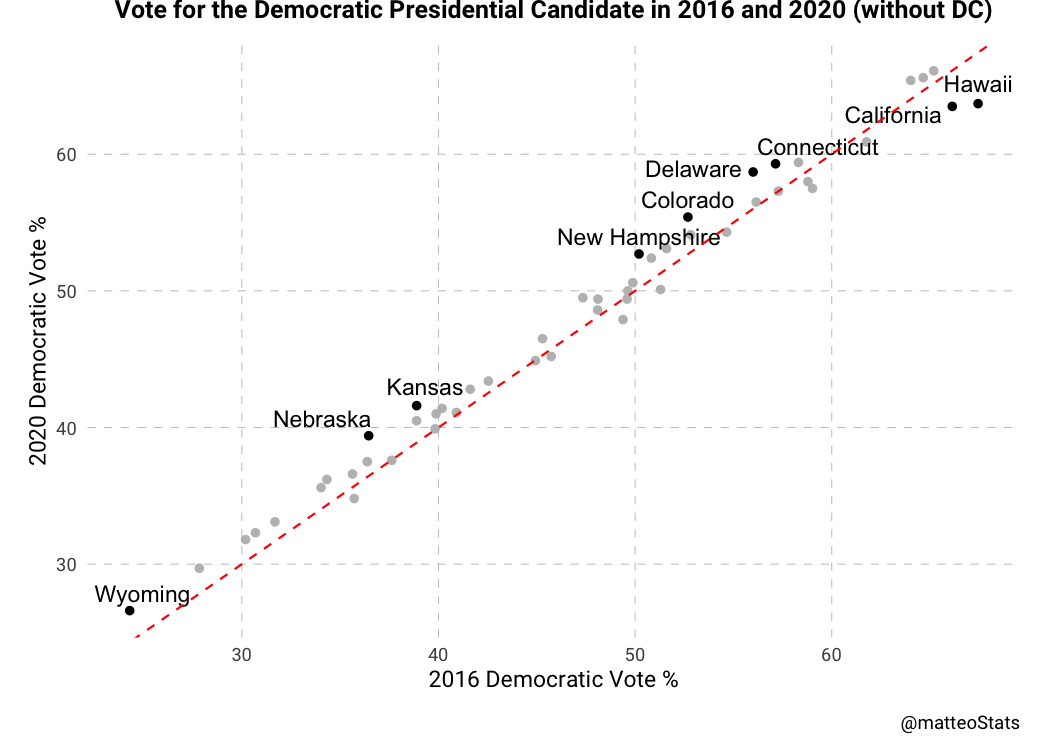
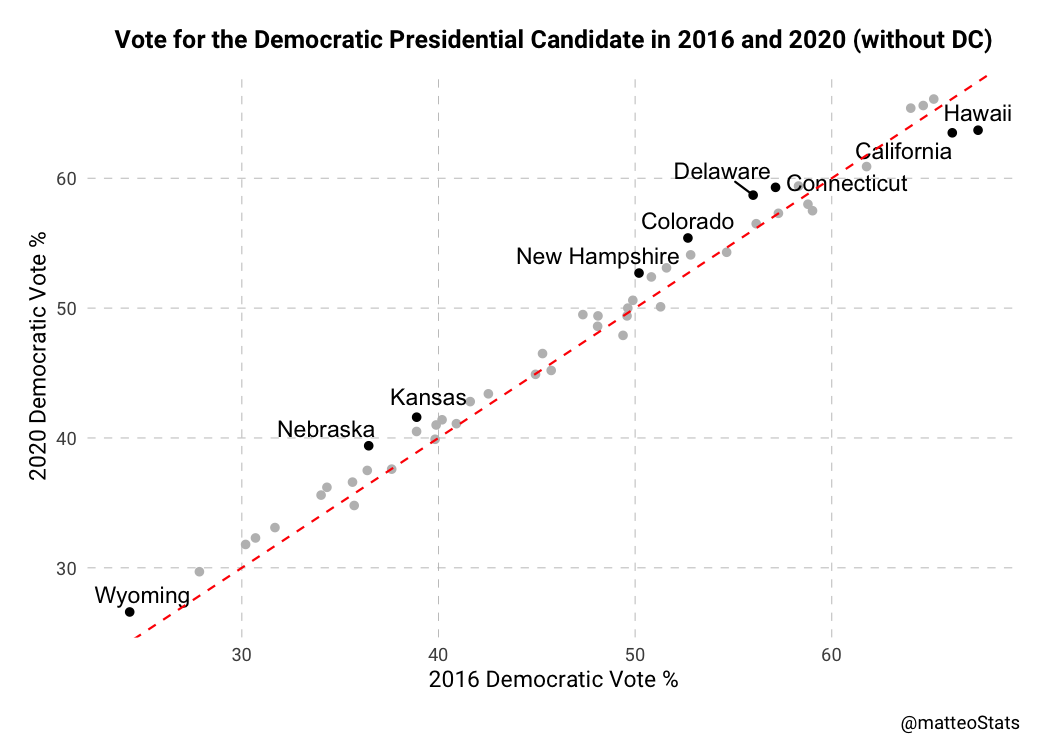
rendered v2

diff --git a/Graphing Relationships/README.md b/Graphing Relationships/README.md
@@ -237,7 +237,7 @@ plot3 <- ggplot(data = filter(vote16_20_new, state != "District of Columbia"),
                   position = position_nudge_repel(y = 1)) +
   theme(text=element_text(family="Roboto"),
         panel.background = element_blank(),
-        plot.margin = unit(c(0, 0.5, 0.5, 0.5), "cm"),
+        plot.margin = unit(c(0.5, 0.5, 0.5, 0.5), "cm"),
         plot.title=element_text(hjust=0.5, face="bold", size=12, margin = margin(b=10)),
         plot.caption = element_text(size=9, vjust = -2),
         axis.ticks = element_blank(),
